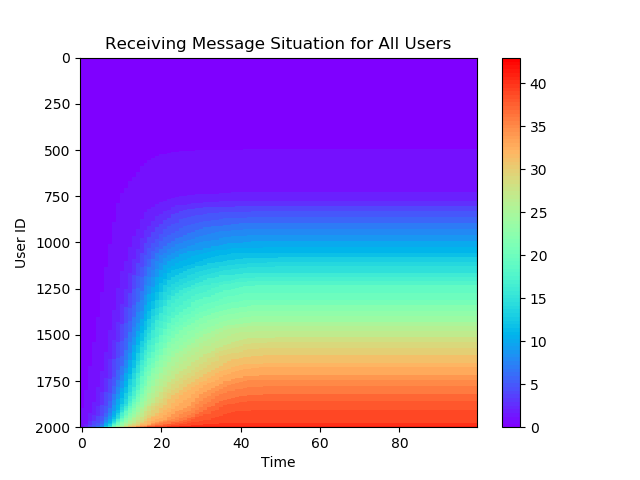
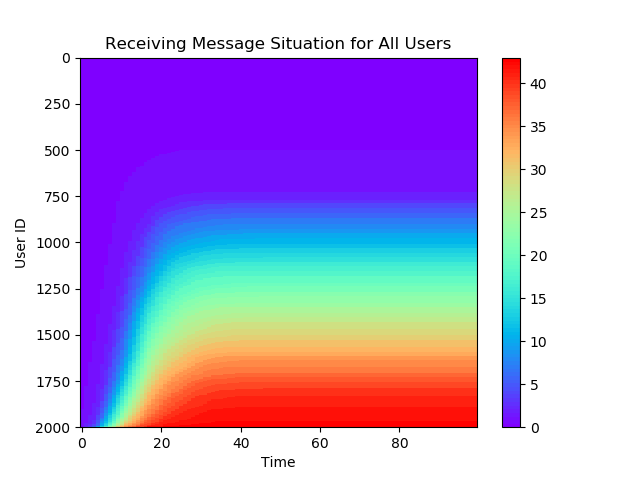
change policy tendency function to logistic

Changed region(s): [[0.1562, 0.4688, 0.75, 0.9062]]

diff --git a/rumorTest/optimize.py b/rumorTest/optimize.py
@@ -13,11 +13,15 @@ import moviepy.editor as mpy
 
 from informationFlow import Net
 
-seed(1)
+seed(0)
 
 
 def dfs(g: nx.DiGraph, sources: List):
     influence = {s: 0 for s in sources}
+    weight = nx.get_node_attributes(g, "policy")
+    weight = list(weight.values())
+    weight = np.array(weight)
+    weight = 0.01*np.exp(-0.01*weight)/np.square(1+np.exp(-0.01*weight))
     for s in sources:
         count = 0
         arrive = np.zeros(nx.number_of_nodes(g))
@@ -35,13 +39,14 @@ def dfs(g: nx.DiGraph, sources: List):
                     tocheck.put_nowait(v)
                 else:
                     arrive[v] = 1-(1-arrive[v])*(1-arrive[u]*g[v][u]["Eprob"])
-        influence[s] = np.sum(arrive)
+        influence[s] = np.sum(arrive*weight)
         print("%f s: Influence of user %d is %f. He influences %d people. "
               % (time()-start_time, s, influence[s], count))
     return influence
 
 
 def simu_and_plot(net: Net, source: List, tendency: List, name="temp", path="./picture", show=False):
+    seed(0)
     Rec, politicRed, politicBlue = net.Spread(source, tendency)
     print("%f s: Simulation %s. " % (time() - start_time, name))
 
@@ -64,7 +69,7 @@ def simu_and_plot(net: Net, source: List, tendency: List, name="temp", path="./p
     plt.xlabel('Time')
     plt.ylabel('Political Value')
     plt.title('Political Attitude')
-    plt.axis([0, Rec.shape[1], 0, 1])
+    # plt.axis([0, Rec.shape[1], 0.45, 0.55])
     plt.savefig(os.path.join(path, name + "_result.png"))
     if show:
         plt.show()
@@ -127,21 +132,33 @@ def main(path="./Graph2k.pickle"):
     big_name = sorted(influence, key=lambda key: influence[key], reverse=True)
     print("%f s: Get influence of each celebrity. " % (time()-start_time))
     selected_by_influence = big_name[:50]
-    temp = [pr[user] for user in selected_by_influence]
 
     # Stochastic policy
     blue_sources = list(choice(list(set(g.nodes)-set(selected_by_influence)-set(selected_by_pagerank)), 50))
     red_sources = list(choice(list(set(g.nodes)-set(blue_sources)), 50))
     rec_1 = simu_and_plot(net, red_sources+blue_sources, [1] * 50 + [0] * 50, "Stochastic")
+    cost_1 = [pr[user] for user in red_sources+blue_sources]
+    cost_1 = np.array(cost_1)
+    cost_1 = np.sum(np.exp(100*cost_1))
+    print(cost_1)
 
     # our policy
     rec_2 = simu_and_plot(net, selected_by_influence + blue_sources, [1] * 50 + [0] * 50, "Influence")
+    cost_2 = [pr[user] for user in selected_by_influence + blue_sources]
+    cost_2 = np.array(cost_2)
+    cost_2 = np.sum(np.exp(100*cost_2))
+    print(cost_2)
 
     # pagerank policy
     rec_3 = simu_and_plot(net, selected_by_pagerank + blue_sources, [1] * 50 + [0] * 50, "PageRank")
+    cost_2 = [pr[user] for user in selected_by_pagerank + blue_sources]
+    cost_3 = np.array(cost_2)
+    cost_3 = np.sum(np.exp(100*cost_3))
+    print(cost_3)
 
     # animation
-    develop(rec_1, rec_2, rec_3)
+    # develop(rec_1, rec_2, rec_3)
+
 
 if __name__ == '__main__':
     main()

diff --git a/rumorTest/informationFlow.py b/rumorTest/informationFlow.py
@@ -30,7 +30,7 @@ class Net(object):
         self.G = G
 
         # 随机生成各个点的政治属性
-        self.policy = {node: random() for node in self.PersonList}
+        self.policy = {node: random()*200-100 for node in self.PersonList}
         nx.set_node_attributes(self.G, self.policy, name='policy')  # 均匀分布（可调试）
         # 随机生成每条边的延迟时间
         self.delayTime = {edge: randint(1, 10) for edge in self.EdgeList}
@@ -86,18 +86,14 @@ class Net(object):
             PoliChange[person, 0] = self.policy[person]
         # PoliChange[:, 1:] = np.minimum(1, PoliChange[:, 0:-1] + 0.05 * Rec[:, 1:])
         for t in range(n - 1):
-            PoliChange[:, t + 1] = np.minimum(1, PoliChange[:, t] + 0.1 * politicRed[:, t + 1] - 0.1 * politicBlue[:,
-                                              t + 1])  # 越靠近1约red
-
-        # TODO: 
-        # 这里的改变我直接粗暴的乘了0.05
-        # 这个函数需要好好想想
+            PoliChange[:, t + 1] = np.clip(PoliChange[:, t] + 0.1*politicRed[:, t+1] - 0.1*politicBlue[:, t+1],
+                                           -1000, 1000)     # 越靠近1约red
+        PoliChange = 1/(1+np.exp(-0.01*PoliChange))
+        # TODO:
         # p.s. 上面这句话怎么向量化。。。 如何用generator遍历dict?
-        PoliMap = np.zeros(n)
-        for t in range(n):
-            PoliMap[t] = len(np.where(PoliChange[:, t] < 0.5)[0])
+        PoliMap = np.average(PoliChange, 0)
 
-        return PoliMap / self.Num
+        return PoliMap
 
     def Show(self):
         plt.figure(figsize=(18, 18))
